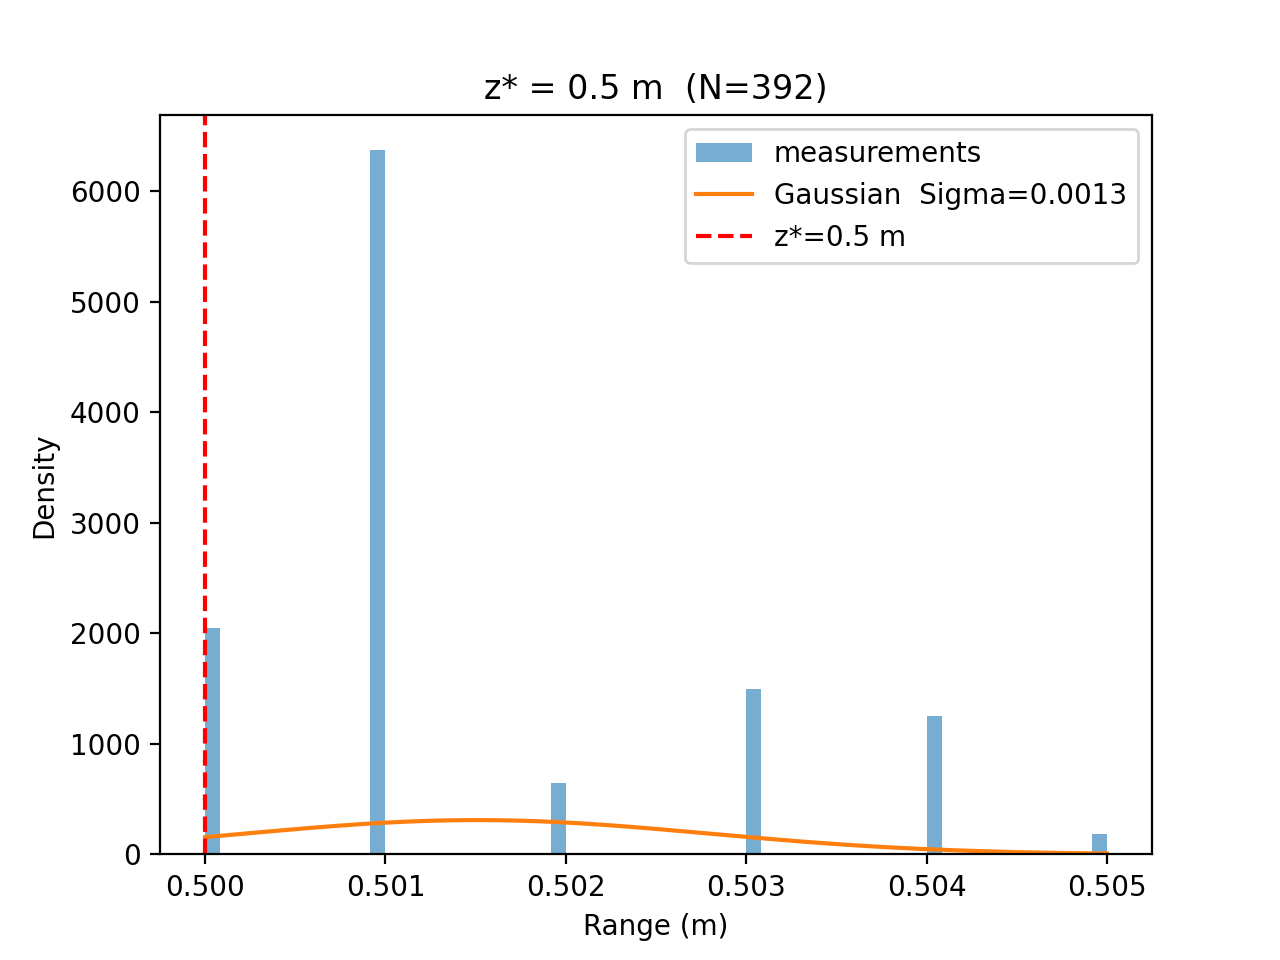
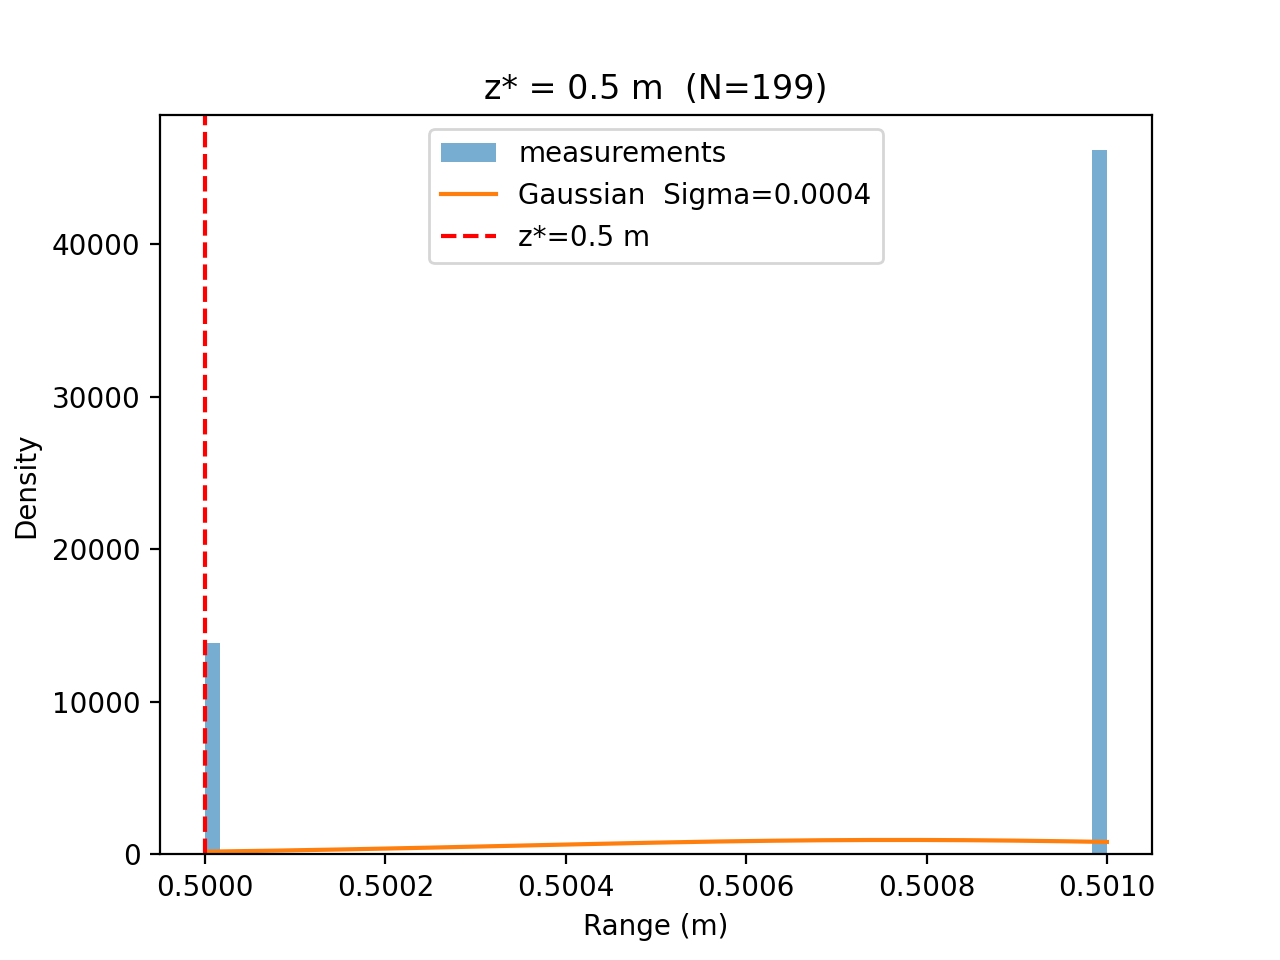
Rerun with tighter window

diff --git a/analysis/analyze_lidar_bag.py b/analysis/analyze_lidar_bag.py
@@ -30,7 +30,7 @@ BAG_FILES = [
 ]
 
 TARGET_ANGLE = 0.0   # radians — 0 = forward-facing beam
-ANGLE_WINDOW = 0.2   # radians to average over
+ANGLE_WINDOW = 0.1   # radians to average over
 
 os.makedirs(os.path.join(HERE, "figures"), exist_ok=True)
 
@@ -103,8 +103,8 @@ for true_dist, r in sorted(results.items()):
 # ---------------------------------------------------------------------------
 
 print("\n--- Parameter Estimation ---")
-print(f"{'z*(m)':>6} {'N':>6} {'Mean(m)':>9} {'Bias(m)':>9} {'sigma_hit(m)':>13}")
-print("-" * 48)
+print(f"{'z*(m)':>6} {'N':>6} {'Mean(m)':>9} {'Bias(m)':>9} {'sigma_hit(m)':>13} {'Outliers':>10}")
+print("-" * 60)
 
 for true_dist, r in sorted(results.items()):
     data = r["data"]
@@ -112,10 +112,13 @@ for true_dist, r in sorted(results.items()):
     mean      = np.mean(data)
     sigma_hit = np.std(data)
     bias      = mean - true_dist
+    
+    # outliers > 3 sigma
+    outliers = np.sum(np.abs(data - mean) > 3 * sigma_hit)
 
-    results[true_dist].update({"mean": mean, "sigma_hit": sigma_hit, "bias": bias})
+    results[true_dist].update({"mean": mean, "sigma_hit": sigma_hit, "bias": bias, "outliers": outliers})
 
-    print(f"{true_dist:6.2f} {len(data):6d} {mean:9.4f} {bias:9.4f} {sigma_hit:13.4f}")
+    print(f"{true_dist:6.2f} {len(data):6d} {mean:9.4f} {bias:9.4f} {sigma_hit:13.4f} {outliers:10d}")
 
 
 # ---------------------------------------------------------------------------
